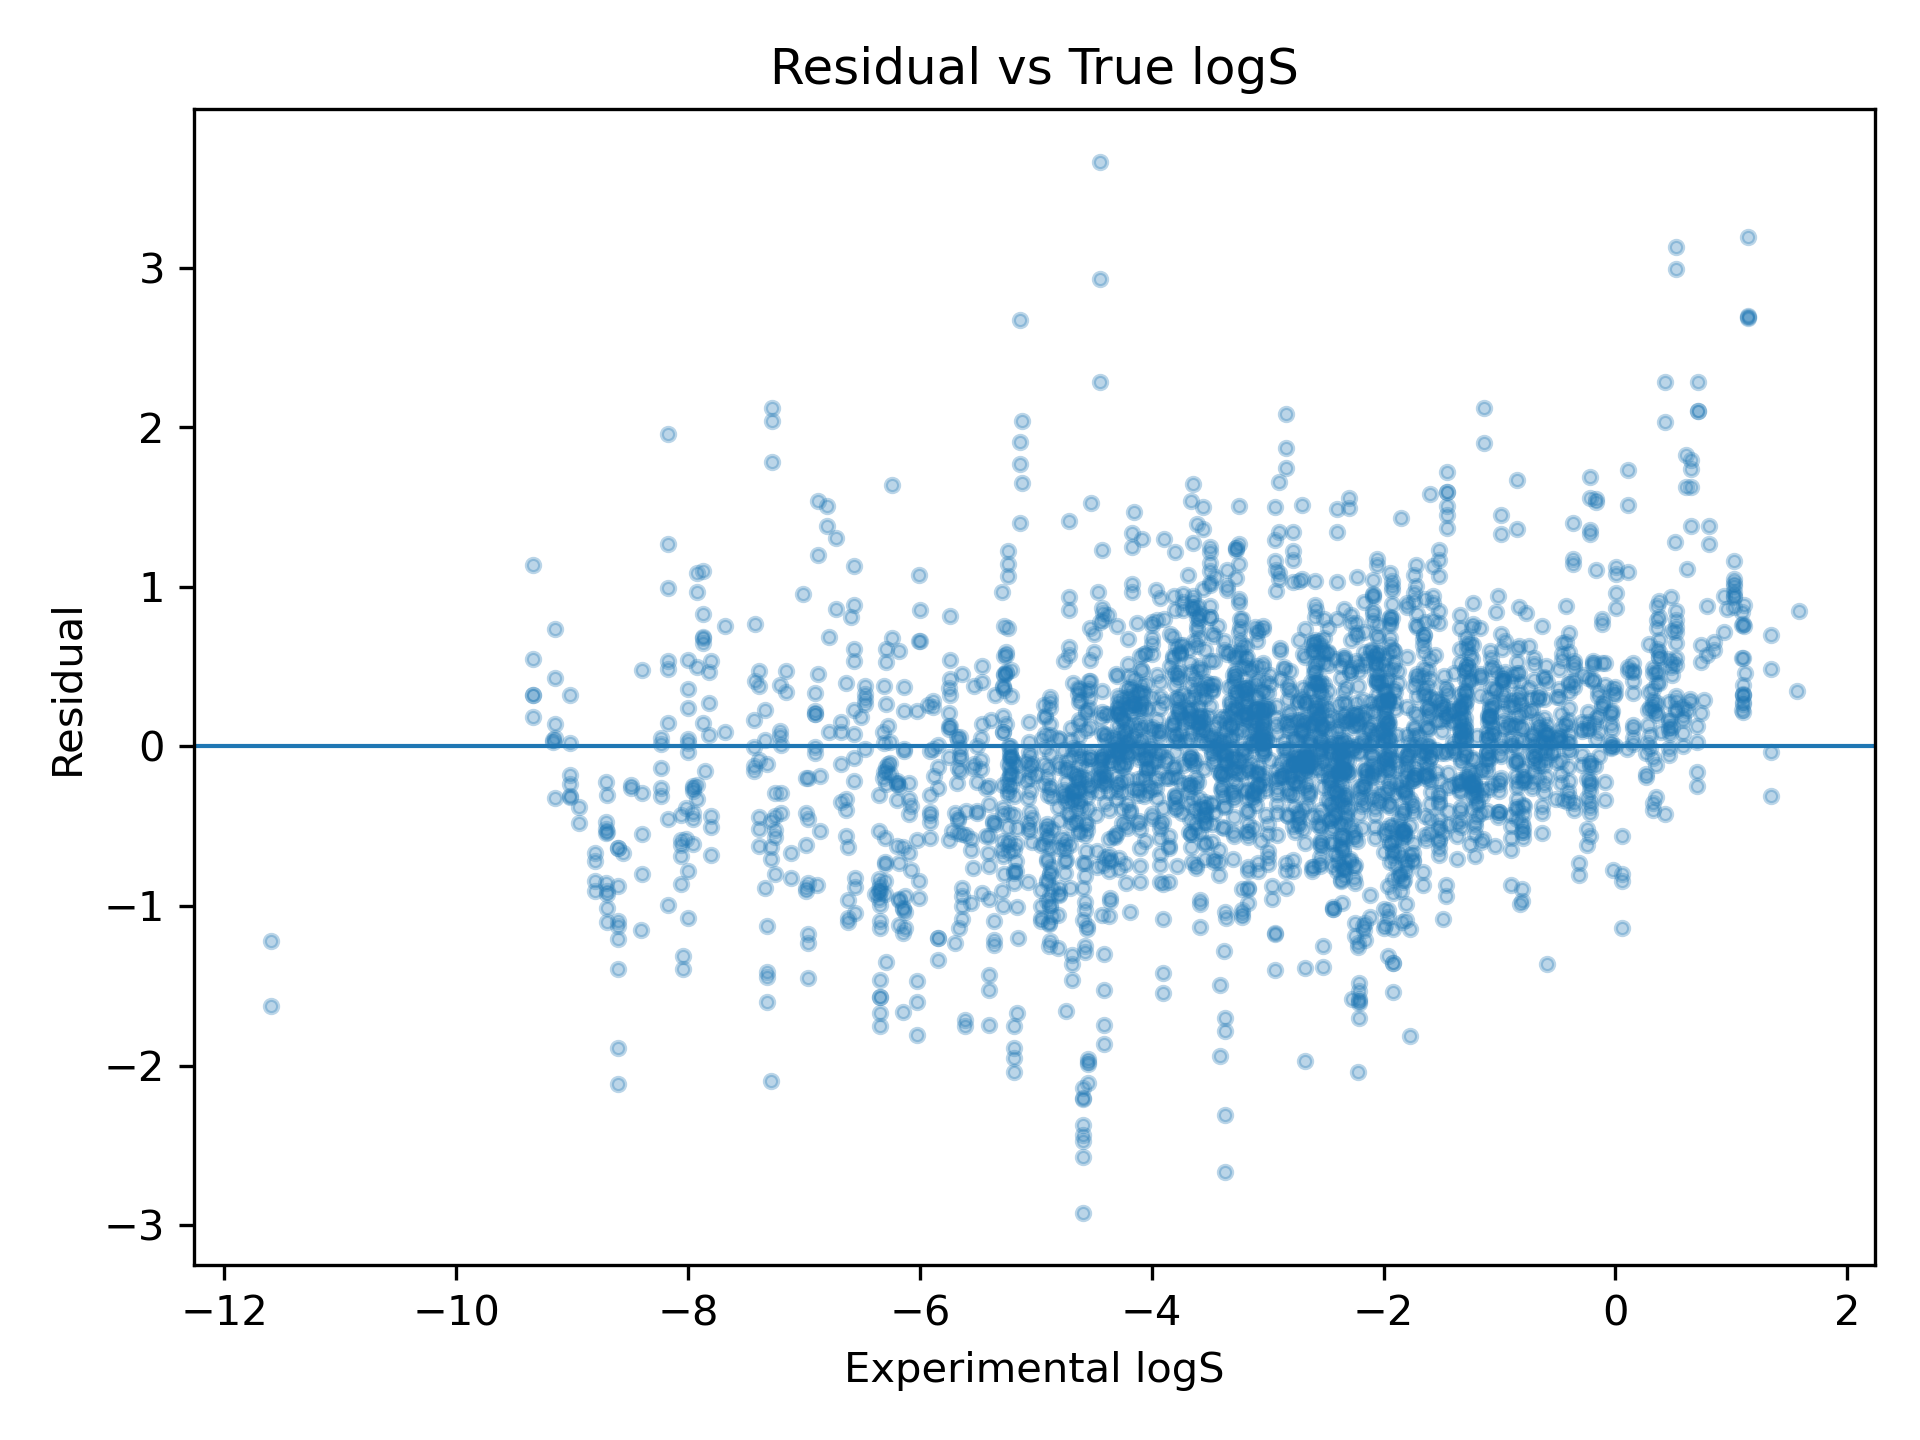
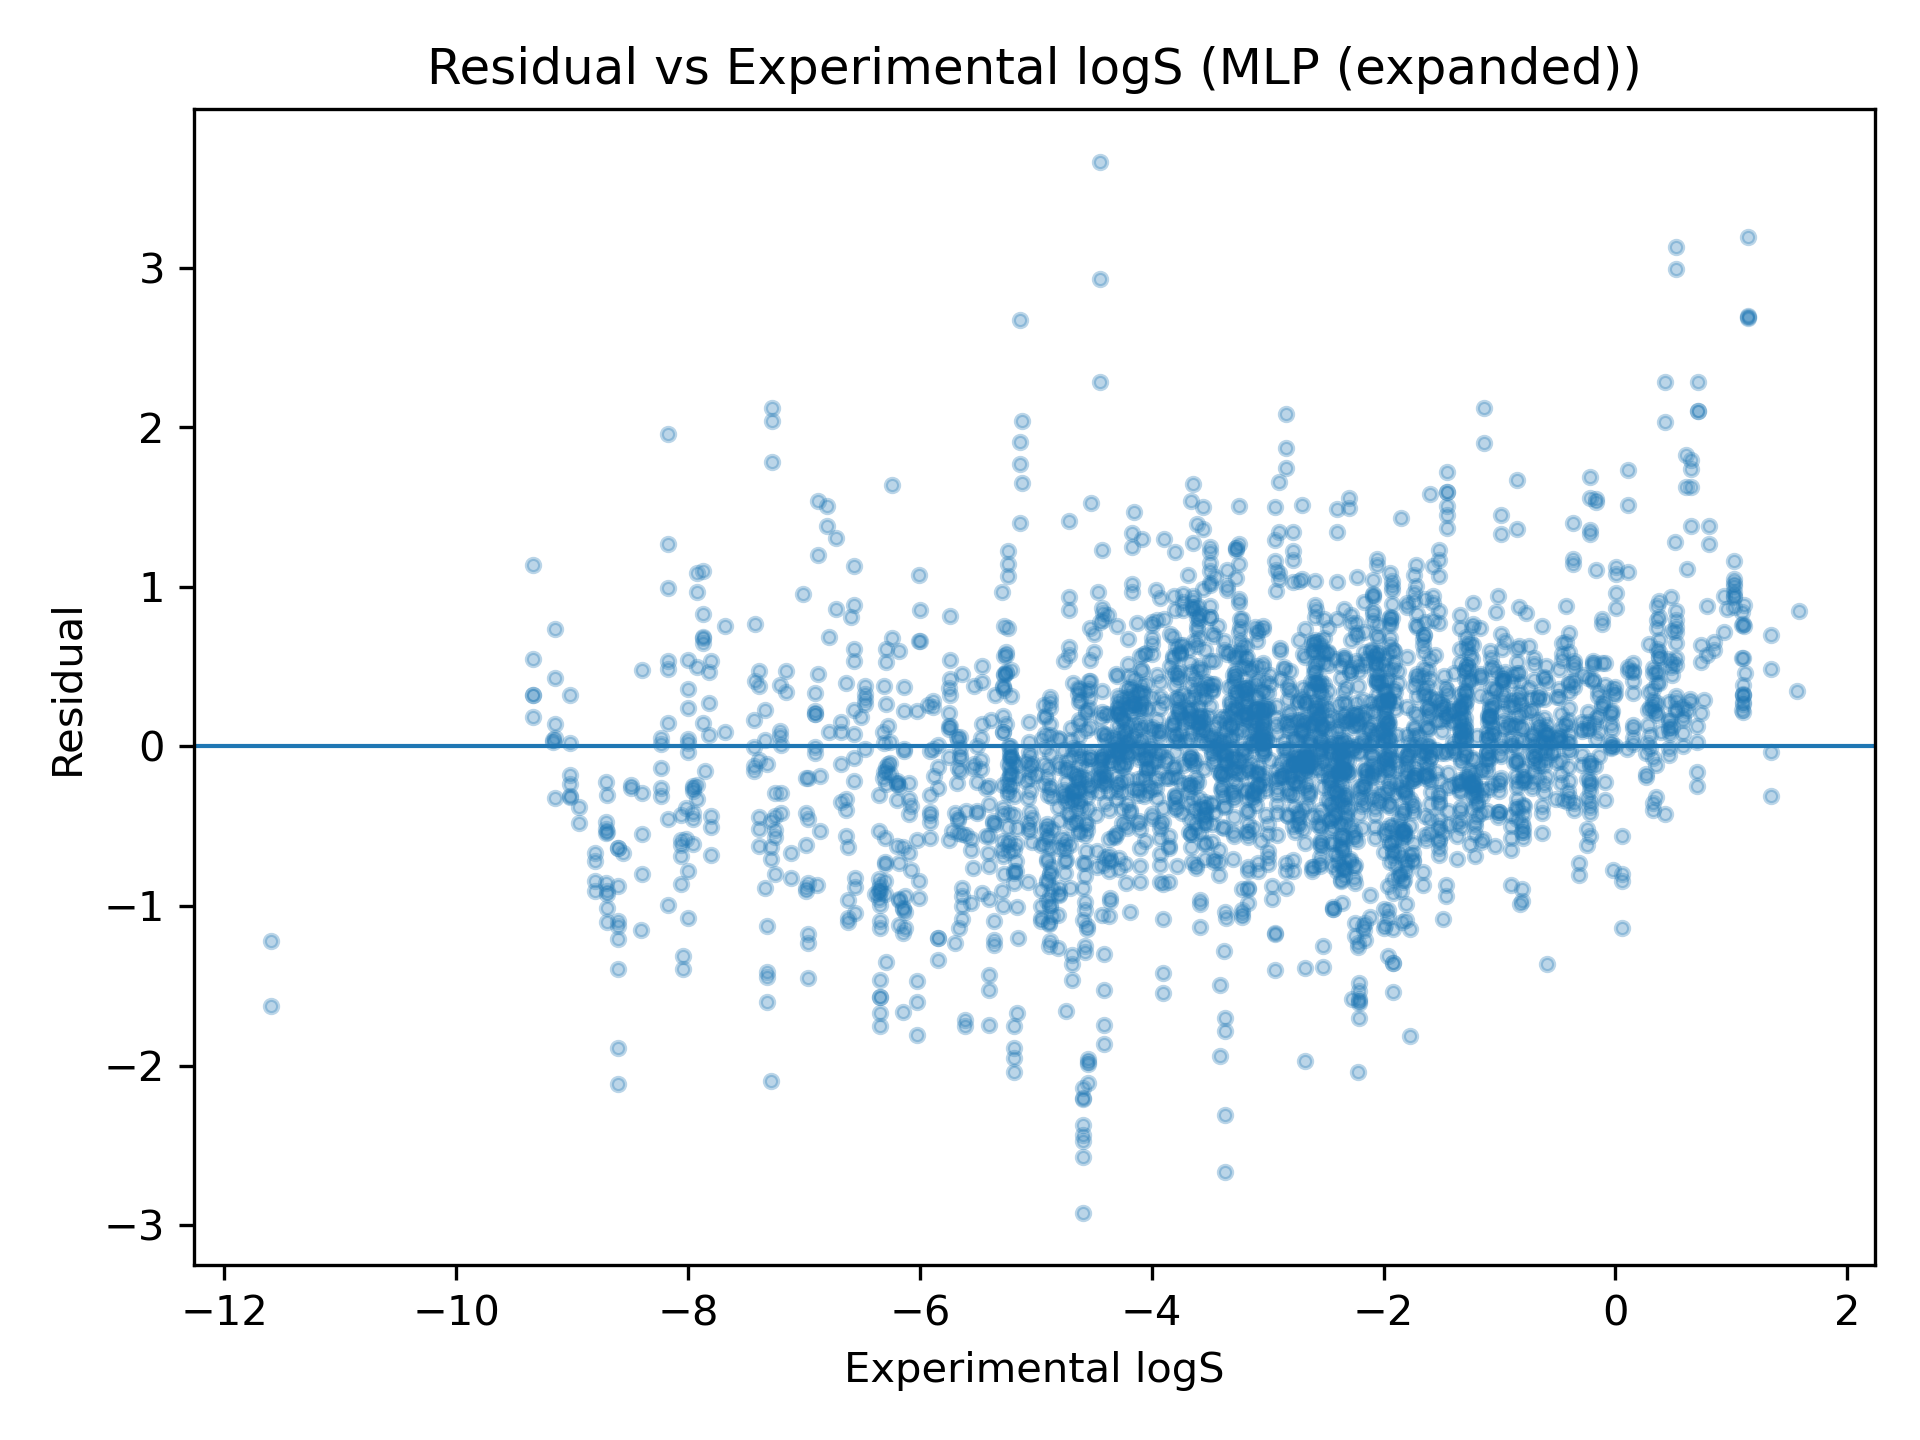
fixed labels and relocated visualizations

Changed region(s): [[0.2188, 0.0312, 0.8438, 0.0625]]

diff --git a/wk5/07_model_visualization.py b/wk5/07_model_visualization.py
@@ -41,19 +41,19 @@ plt.savefig('exports/rf_mlp_residual_comparison.png', dpi=300)
 plt.close()
 
 # Visualize and save residual vs true logS plot for each model
-def resid_vs_true_plot(y_true, resid, outpath):
+def resid_vs_true_plot(model_name, y_true, resid, outpath):
     plt.figure()
     plt.scatter(y_true, resid, s=10, alpha=0.3)
     plt.axhline(0.0, linewidth=1)
     plt.xlabel('Experimental logS')
     plt.ylabel('Residual')
-    plt.title('Residual vs True logS')
+    plt.title(f'Residual vs Experimental logS ({model_name})')
     plt.tight_layout()
     plt.savefig(outpath, dpi=300)
     plt.close()
-resid_vs_true_plot(y_rf, resid_rf, 'wk5/07_rf_resid_vs_exp.png')
-resid_vs_true_plot(y_mlp, resid_mlp, 'wk5/07_mlp_base_resid_vs_exp')
-resid_vs_true_plot(y_ext, resid_ext, 'wk5/07_mlp_ext_resid_vs_exp')
+resid_vs_true_plot('Random Forest', y_rf, resid_rf, 'wk5/07_rf_resid_vs_exp.png')
+resid_vs_true_plot('MLP (base)', y_mlp, resid_mlp, 'wk5/07_mlp_base_resid_vs_exp')
+resid_vs_true_plot('MLP (expanded)', y_ext, resid_ext, 'wk5/07_mlp_ext_resid_vs_exp')
 
 # Define and save CDF info for each model
 def cdf_xy(abs_err):
@@ -133,7 +133,7 @@ for model_name in ['MLP_base', 'MLP_ext']:
     plt.title(f'{model_name}: Learning Curves')
     plt.legend()
     plt.tight_layout()
-    plt.savefig(f'exports/{model_name}_learning_curve.png', dpi=300)
+    plt.savefig(f'wk5/07_{model_name}_learning_curve.png', dpi=300)
     plt.close()
 
 # Plot a new model comparison bar chart

diff --git a/wk5/07_model_visualization_analysis.md b/wk5/07_model_visualization_analysis.md
@@ -1,0 +1,5 @@
+# RF vs Base MLP vs Expanded MLP Error Analysis
+
+## Residuals
+![Residuals Distribution Histogram for Each Model](../exports/rf_mlp_residual_comparison.png)
+![]
